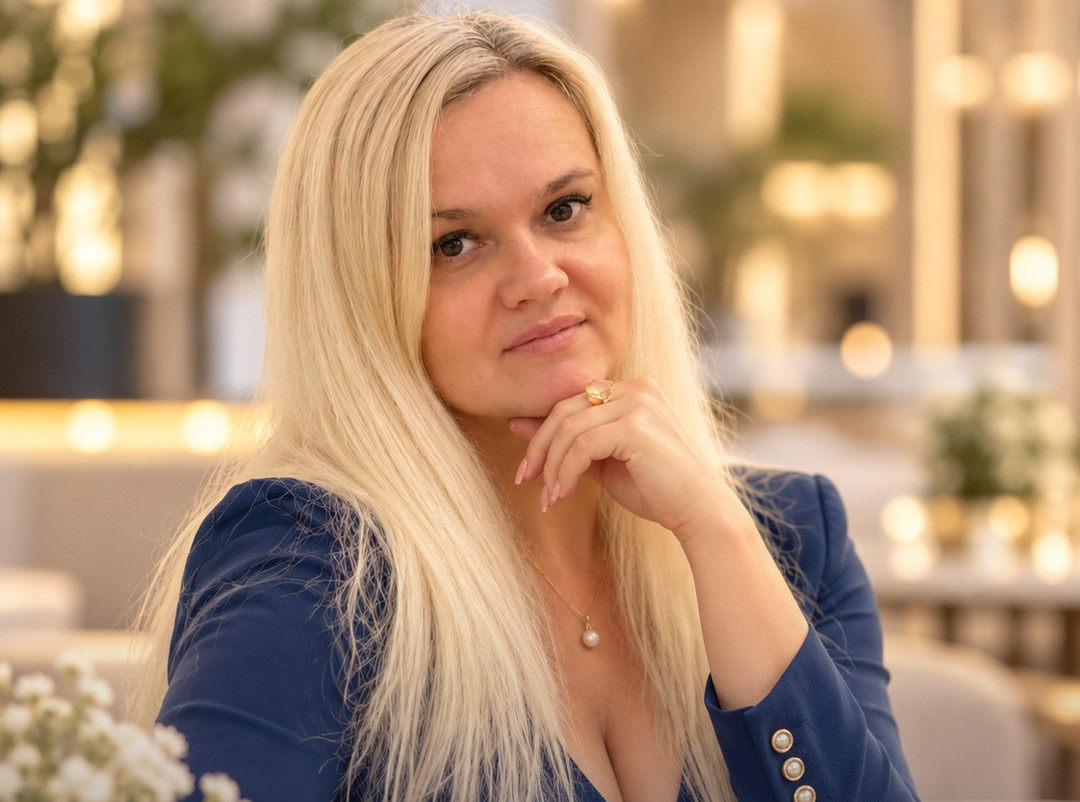
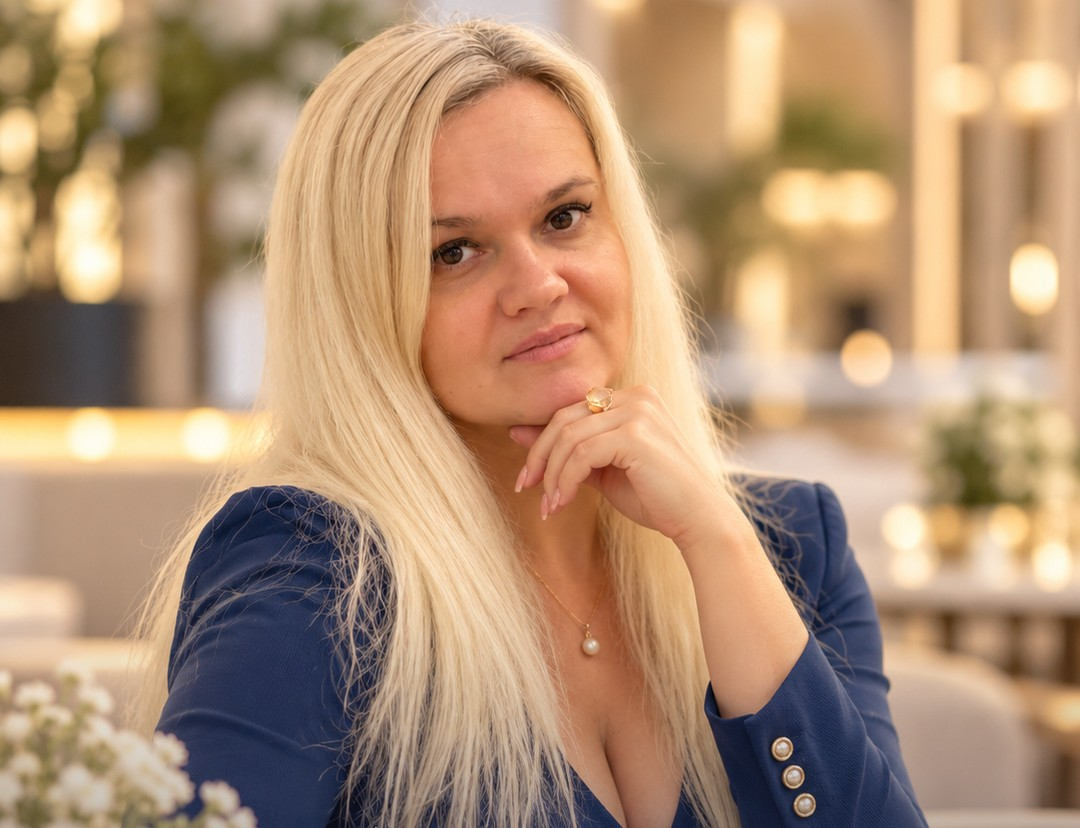
Страница программы: фото целиком, убраны оговорки про прошлые истории
Claude-Session: https://claude.ai/code/session_01QUX44k1taa8ggvj1layl4x

diff --git a/programma/index.html b/programma/index.html
@@ -79,7 +79,7 @@ strong{font-weight:700}
 /* format */
 .split{display:grid;gap:var(--gap);align-items:start}
 .ph{margin:0}
-.ph img{width:100%;object-fit:cover}
+.ph img{width:100%;height:auto;object-fit:cover;display:block}
 .facts{margin:0;display:grid;gap:0}
 .facts>div{padding:20px 0;border-top:1px solid rgba(28,34,51,.16)}
 .facts dt{font:400 21px/1.25 Playfair,serif;margin-bottom:8px}
@@ -175,8 +175,8 @@ body{padding-bottom:76px}
 <section id="format" class="sec tint"><div class="wrap split"><figure class="ph"><img src="img/tatyana-city.jpg" alt="Татьяна Жукова" loading="lazy" width="1080" height="1350"></figure><div><div class="shead"><span class="kicker">04 — Формат</span><h2>Как проходит работа</h2></div><dl class="facts"><div><dt>Встречи</dt><dd>16 живых встреч в Zoom раз в неделю по два часа, плюс две недели предобучения. В каждом месяце два практикума по вашему проекту, одна встреча глубокой внутренней работы и один разбор того, что вы внедрили. Все встречи записываются.</dd></div><div><dt>Внутренняя работа</dt><dd>Четыре темы: своё место, деньги и право получать, видимость и чужая оценка, рост и границы. Расстановочные практики на картах, Рейки, работа с родовыми и денежными сценариями.</dd></div><div><dt>Группа</dt><dd>До 8 человек. Каждая получает внимание, а не место в зале.</dd></div><div><dt>Чат и обратная связь</dt><dd>Между встречами я отвечаю в чате и даю обратную связь по каждому выполненному заданию. В дни вашего прогрева я на связи ежедневно.</dd></div><div><dt>Задания</dt><dd>Каждое задание — действие в вашей собственной практике: публикация, разговор с клиентом, названная цена, проведённая консультация. Заданий «для галочки» нет.</dd></div><div><dt>Практика</dt><dd>Около 60% программы — практика на вашем проекте, 20% — теория и 20% — проработки «блоков», без которых тоже не обойтись.</dd></div></dl></div></div></section>
 <section id="bonusy" class="sec navy"><div class="wrap"><div class="shead"><span class="kicker">05 — Сверх программы</span><h2>Бонусы</h2></div><ul class="bonus"><li><span>01</span><h3>Личный астро-нумерологический календарь практика на 2027 год</h3><p>ваши периоды для запусков, эфиров, рекламы и переговоров.</p></li><li><span>02</span><h3>«Чемоданчик эксперта»</h3><p>расчёты по дате рождения, которые можно применять для себя и использовать в работе со своими клиентами. Готовые мини-продукты для эзотериков.</p></li><li><span>03</span><h3>Энергетическое сопровождение группы</h3><p>круги Рейки, в том числе на клиентский поток, проявление и переход на новый денежный уровень.</p></li><li><span>04</span><h3>Банк шаблонов и промтов</h3><p>сценарий консультации, структура прогрева, карта продукта, промты под ваш голос и для каждого этапа.</p></li><li><span>05</span><h3>Аудиопрактики и медитации</h3><p>на каждую тему внутренней работы.</p></li><li><span>06</span><h3>Месяц в чате выпускников</h3><p>и встреча-сверка через 30 дней после окончания.</p></li></ul></div></section>
 <section id="pakety" class="sec"><div class="wrap"><div class="shead"><span class="kicker">06 — Стоимость участия</span><h2>Пакеты участия</h2></div><div class="plans"><article class="plan"><h3>Базовый</h3><p class="pnote">Вся программа в группе</p><p class="price">690 €</p><ul class="checks"><li>Предобучение и 16 встреч</li><li>Личные расчёты по дате рождения в рабочей тетради</li><li>Чат и обратная связь по заданиям</li><li>Четыре встречи внутренней работы в группе</li><li>Все бонусы</li></ul><a class="btn ghost" href="https://zhukovatatyana001.github.io/denezhny-kompas/">Обсудить на консультации</a></article><article class="plan"><h3>Продвинутый</h3><p class="pnote">Группа плюс личная работа со мной</p><p class="price">990 €</p><ul class="checks"><li>Предобучение и 16 встреч</li><li>Личные расчёты по дате рождения в рабочей тетради</li><li>Чат и обратная связь по заданиям</li><li>Четыре встречи внутренней работы в группе</li><li>Все бонусы</li><li>Личный письменный разбор по дате рождения применительно к вашей практике</li><li>Личные встречи со мной<em>2 встречи</em></li><li>Личная работа с вашим денежным сценарием или страхом проявления<em>1 сессия</em></li><li>Личный разбор вашей стратегии на год</li></ul><a class="btn ghost" href="https://zhukovatatyana001.github.io/denezhny-kompas/">Обсудить на консультации</a></article><article class="plan vip"><h3>VIP</h3><p class="pnote">Группа и личное сопровождение весь срок</p><p class="price">1 900 €</p><ul class="checks"><li>Предобучение и 16 встреч</li><li>Личные расчёты по дате рождения в рабочей тетради</li><li>Чат и обратная связь по заданиям</li><li>Четыре встречи внутренней работы в группе</li><li>Все бонусы</li><li>Личный письменный разбор по дате рождения применительно к вашей практике<em>расширенный</em></li><li>Личные встречи со мной<em>8 встреч, раз в две недели</em></li><li>Личная работа с вашим денежным сценарием или страхом проявления<em>по ситуации, включая регрессию</em></li><li>Личный разбор вашей стратегии на год<em>+ авторский калькулятор на 5 лет</em></li><li>Часть задач делаю за вас (упаковка профиля, настройка ИИ)<em>объём оговариваем</em></li></ul><a class="btn" href="https://zhukovatatyana001.github.io/denezhny-kompas/">Обсудить на консультации</a></article></div><div class="cols2 pnotes"><p>Базовый пакет — полноценное участие: вся программа, внутренняя работа и запуск уже в нём. За продвинутый и VIP вы платите за персонализацию и время один на один со мной.</p><p>Цены указаны на текущий набор. Возможна оплата частями по месяцам. Какой пакет вам подходит, решим вместе на бесплатной консультации.</p></div></div></section>
-<section id="avtor" class="sec tint"><div class="wrap split rev"><div><div class="shead"><span class="kicker">07 — Кто ведёт</span><h2>Об авторе</h2></div><p>Меня зовут Татьяна Жукова. По первому образованию я юрист, по второму — политолог, магистр политического маркетинга. Десять лет работала в судах, в Киевской мэрии, руководила юридическим отделом в государственной администрации. И ушла с этой должности, потому что хотела заниматься тем, что мне по-настоящему интересно. Так что я хорошо знаю, каково это: менять профессию, когда все вокруг знают вас в прежней, и вслух говорить «я занимаюсь эзотерикой».</p><p>В онлайн-маркетинге я с 2011 года. В 2013–2015 годах вместе с партнёром вела школу, в которой больше тысячи сетевиков научились продвигаться в интернете через свою экспертность: мои ученицы создавали сайты, блоги и интернет-магазины, хотя начинали с вопроса «что такое домен». Сейчас веду клиентские проекты по SMM и сайтам и использую ИИ в ежедневной работе.</p><p>Параллельно все эти годы шла вторая линия. Я астропсихолог, нумеролог, мастер-учитель Рейки (больше 230 настроек), расстановщик, регрессолог, работаю с китайской метафизикой: Ба-цзы, Ци Мэнь, фэн-шуй. Консультирую больше семи лет, мои клиенты живут в Украине, Германии, Казахстане, Израиле и многих других странах.</p><p>Долго мне говорили, что это нельзя объединить. А я дважды заходила в онлайн-маркетинг и дважды убеждалась: по отдельности не работает. Недостаточно знать своё предназначение, если ничего с ним не делать. И недостаточно изучать маркетинг, если не опираться на себя. «Денежный компас» — программа, в которой я соединила обе свои профессии.</p></div><figure class="ph"><img src="img/tatyana-blue.jpg" alt="Татьяна Жукова, автор программы" loading="lazy" width="1080" height="802"></figure></div><div class="wrap"><h3 class="subh">Сертификаты и обучение</h3><div class="slider " id="certs"><div class="track" tabindex="0"><a class="slide" href="img/cert-01.jpg" target="_blank" rel="noopener"><img src="img/cert-01.jpg" alt="Сертификат: консультант по предназначению в методе Матрица Судьбы, курс «Предназначение и выбор профессии»" loading="lazy" width="848" height="1200"></a><a class="slide" href="img/cert-02.jpg" target="_blank" rel="noopener"><img src="img/cert-02.jpg" alt="Сертификат Energy Coach of Quantum Financial Transformation" loading="lazy" width="848" height="1200"></a><a class="slide" href="img/cert-03.jpg" target="_blank" rel="noopener"><img src="img/cert-03.jpg" alt="Сертификат: Digital Zen, Рэйки цифрового пространства и энергии проявления" loading="lazy" width="848" height="1200"></a><a class="slide" href="img/cert-04.jpg" target="_blank" rel="noopener"><img src="img/cert-04.jpg" alt="Сертификат ORIGINAL Reiki Master Teacher" loading="lazy" width="848" height="1200"></a><a class="slide" href="img/cert-05.jpg" target="_blank" rel="noopener"><img src="img/cert-05.jpg" alt="Сертификат мастера-учителя Кундалини Рэйки" loading="lazy" width="1200" height="848"></a><a class="slide" href="img/cert-06.jpg" target="_blank" rel="noopener"><img src="img/cert-06.jpg" alt="Сертификат: регрессивная психология, Владимир Харламов" loading="lazy" width="1200" height="848"></a><a class="slide" href="img/cert-07.jpg" target="_blank" rel="noopener"><img src="img/cert-07.jpg" alt="Сертификат программы «Секреты дорогих программ 9.0», 2021" loading="lazy" width="1200" height="849"></a><a class="slide" href="img/cert-08.jpg" target="_blank" rel="noopener"><img src="img/cert-08.jpg" alt="Сертификат тренинга «Методика скоростных продаж коучинга»" loading="lazy" width="1200" height="857"></a><a class="slide" href="img/cert-09.jpg" target="_blank" rel="noopener"><img src="img/cert-09.jpg" alt="Сертификат: квантовая гипнотическая регрессия и другие энергии" loading="lazy" width="1200" height="848"></a><a class="slide" href="img/cert-10.jpg" target="_blank" rel="noopener"><img src="img/cert-10.jpg" alt="Сертификат мастера-учителя «Рэйки Деньги Новой Реальности»" loading="lazy" width="1200" height="848"></a><a class="slide" href="img/cert-11.jpg" target="_blank" rel="noopener"><img src="img/cert-11.jpg" alt="Сертификат: «Магический усилитель энергии денег»" loading="lazy" width="1200" height="848"></a><a class="slide" href="img/cert-12.jpg" target="_blank" rel="noopener"><img src="img/cert-12.jpg" alt="Сертификат Reiki Master of the Holy Fire" loading="lazy" width="848" height="1200"></a><a class="slide" href="img/cert-13.jpg" target="_blank" rel="noopener"><img src="img/cert-13.jpg" alt="Сертификат Phoenix Reiki" loading="lazy" width="1200" height="848"></a><a class="slide" href="img/cert-14.jpg" target="_blank" rel="noopener"><img src="img/cert-14.jpg" alt="Сертификат: вторая ступень Рейки Микао Усуи" loading="lazy" width="860" height="1200"></a><a class="slide" href="img/cert-15.jpg" target="_blank" rel="noopener"><img src="img/cert-15.jpg" alt="Сертификат школы «Магия рун»" loading="lazy" width="1000" height="707"></a></div><div class="ctrl"><button type="button" class="prev" aria-label="Назад">←</button><button type="button" class="next" aria-label="Вперёд">→</button></div></div></div></section>
-<section id="rezultaty" class="sec"><div class="wrap"><div class="grid"><div class="shead"><span class="kicker">08 — Истории и отзывы</span><h2>Результаты клиентов</h2></div><div class="scontent"><p class="lead">Это истории из моей работы прошлых лет: личного сопровождения и школы. Программу в нынешнем виде я пересобрала из своих материалов и обучений.</p></div></div><div class="cases"><article class="case"><h3>Инга</h3><div><span>Что было</span><p>Одна в столице, съёмная квартира, увольнения, денег не хватает, запрос «что делать дальше, у меня порча».</p></div><div><span>Что изменилось</span><p>В сопровождении работали с целями, ценностями, финансами и мышлением.</p></div><div><span>Результат</span><p>Доход вырос в 15 раз.</p></div></article><article class="case"><h3>Елена</h3><div><span>Что было</span><p>Работа по найму и собственный проект, который годами тянулся «в свободное время».</p></div><div><span>Что изменилось</span><p>Прошла коучинг.</p></div><div><span>Результат</span><p>Ушла из найма и открыла своё предприятие.</p></div></article><article class="case"><h3>Жанна, Казахстан</h3><div><span>Что было</span><p>Государственная служба, кредиты размером с зарплату, никаких целей.</p></div><div><span>Что изменилось</span><p>Двухмесячный курс.</p></div><div><span>Результат</span><p>Купила франшизу детского развивающего центра и позже ушла с госработы, переехала в столицу, купила дом.</p></div></article><article class="case"><h3>Наталья, школа для сетевиков</h3><div><span>Что было</span><p>Программист, всё знала, но не было результата.</p></div><div><span>Что изменилось</span><p>Прошла обучение, затем вернулась в него куратором уже со своей новой командой.</p></div><div><span>Результат</span><p>Начала создавать интернет-магазины не только для себя и активно проявляться. Спустя годы сменила направление, но навык проявляться остался и работает в любой сфере.</p></div></article><article class="case"><h3>Татьяна</h3><div><span>Что было</span><p>Много лет занималась детьми и внуками, после развода захотела «тоже кем-то стать».</p></div><div><span>Что изменилось</span><p>В работе нашли её направление, прошла обучение.</p></div><div><span>Результат</span><p>Начала собственную практику, переехала и купила квартиру.</p></div></article></div><h3 class="subh">Отзывы в переписке</h3><div class="slider tall" id="shots"><div class="track" tabindex="0"><a class="slide" href="img/otzyv-zhanna.png" target="_blank" rel="noopener"><img src="img/otzyv-zhanna.png" alt="Отзыв: Жанна, Казахстан. Двухмесячный курс 2015 года" loading="lazy" width="720" height="960"><span>Жанна, Казахстан. Двухмесячный курс 2015 года</span></a><a class="slide" href="img/otzyv-01.jpg" target="_blank" rel="noopener"><img src="img/otzyv-01.jpg" alt="Отзыв: Разбор по дате рождения, 2021" loading="lazy" width="900" height="733"><span>Разбор по дате рождения, 2021</span></a><a class="slide" href="img/otzyv-02.jpg" target="_blank" rel="noopener"><img src="img/otzyv-02.jpg" alt="Отзыв: После Рейки: договор на франшизу и звонки по работе" loading="lazy" width="514" height="291"><span>После Рейки: договор на франшизу и звонки по работе</span></a><a class="slide" href="img/otzyv-03.jpg" target="_blank" rel="noopener"><img src="img/otzyv-03.jpg" alt="Отзыв: Анна. Консультация по стратегии" loading="lazy" width="433" height="621"><span>Анна. Консультация по стратегии</span></a><a class="slide" href="img/otzyv-04.jpg" target="_blank" rel="noopener"><img src="img/otzyv-04.jpg" alt="Отзыв: Работа с 2021 года" loading="lazy" width="584" height="512"><span>Работа с 2021 года</span></a><a class="slide" href="img/otzyv-05.jpg" target="_blank" rel="noopener"><img src="img/otzyv-05.jpg" alt="Отзыв: О нашей работе" loading="lazy" width="656" height="257"><span>О нашей работе</span></a><a class="slide" href="img/otzyv-06.jpg" target="_blank" rel="noopener"><img src="img/otzyv-06.jpg" alt="Отзыв: Александра. Отзыв на Facebook" loading="lazy" width="900" height="625"><span>Александра. Отзыв на Facebook</span></a><a class="slide" href="img/otzyv-07.jpg" target="_blank" rel="noopener"><img src="img/otzyv-07.jpg" alt="Отзыв: Елена. Отзыв на Facebook" loading="lazy" width="900" height="798"><span>Елена. Отзыв на Facebook</span></a><a class="slide" href="img/otzyv-08.jpg" target="_blank" rel="noopener"><img src="img/otzyv-08.jpg" alt="Отзыв: Натали. Отзыв на Facebook" loading="lazy" width="499" height="413"><span>Натали. Отзыв на Facebook</span></a><a class="slide" href="img/otzyv-09.jpg" target="_blank" rel="noopener"><img src="img/otzyv-09.jpg" alt="Отзыв: Работа с родом, 2021" loading="lazy" width="900" height="904"><span>Работа с родом, 2021</span></a><a class="slide" href="img/otzyv-10.jpg" target="_blank" rel="noopener"><img src="img/otzyv-10.jpg" alt="Отзыв: Отзыв в Instagram" loading="lazy" width="443" height="400"><span>Отзыв в Instagram</span></a><a class="slide" href="img/otzyv-11.jpg" target="_blank" rel="noopener"><img src="img/otzyv-11.jpg" alt="Отзыв: Инга. После первой консультации" loading="lazy" width="900" height="387"><span>Инга. После первой консультации</span></a><a class="slide" href="img/otzyv-12.jpg" target="_blank" rel="noopener"><img src="img/otzyv-12.jpg" alt="Отзыв: Инга. В тот же вечер" loading="lazy" width="900" height="1137"><span>Инга. В тот же вечер</span></a><a class="slide" href="img/otzyv-14.jpg" target="_blank" rel="noopener"><img src="img/otzyv-14.jpg" alt="Отзыв: Переезд и перемены в семье" loading="lazy" width="900" height="1512"><span>Переезд и перемены в семье</span></a><a class="slide" href="img/otzyv-13.jpg" target="_blank" rel="noopener"><img src="img/otzyv-13.jpg" alt="Отзыв: О переменах в семье" loading="lazy" width="900" height="304"><span>О переменах в семье</span></a><a class="slide" href="img/otzyv-sonya.png" target="_blank" rel="noopener"><img src="img/otzyv-sonya.png" alt="Отзыв: София. Разбор: реализация и деньги" loading="lazy" width="720" height="753"><span>София. Разбор: реализация и деньги</span></a><a class="slide" href="img/otzyv-alisa.png" target="_blank" rel="noopener"><img src="img/otzyv-alisa.png" alt="Отзыв: Алиса. Консультация по дате рождения" loading="lazy" width="720" height="738"><span>Алиса. Консультация по дате рождения</span></a></div><div class="ctrl"><button type="button" class="prev" aria-label="Назад">←</button><button type="button" class="next" aria-label="Вперёд">→</button></div></div><p class="honest">Я не обещаю вам чужой результат и не называю сумму, которую вы заработаете: она зависит от вас, вашей ниши и вашей готовности действовать. Я обещаю, что вы пройдёте этот путь не в одиночку, а всё, что мы строим, будет построено из вас, а не против вас и не по шаблону.</p></div></section>
+<section id="avtor" class="sec tint"><div class="wrap split rev"><div><div class="shead"><span class="kicker">07 — Кто ведёт</span><h2>Об авторе</h2></div><p>Меня зовут Татьяна Жукова. По первому образованию я юрист, по второму — политолог, магистр политического маркетинга. Десять лет работала в судах, в Киевской мэрии, руководила юридическим отделом в государственной администрации. И ушла с этой должности, потому что хотела заниматься тем, что мне по-настоящему интересно. Так что я хорошо знаю, каково это: менять профессию, когда все вокруг знают вас в прежней, и вслух говорить «я занимаюсь эзотерикой».</p><p>В онлайн-маркетинге я с 2011 года. В 2013–2015 годах вместе с партнёром вела школу, в которой больше тысячи сетевиков научились продвигаться в интернете через свою экспертность: мои ученицы создавали сайты, блоги и интернет-магазины, хотя начинали с вопроса «что такое домен». Сейчас веду клиентские проекты по SMM и сайтам и использую ИИ в ежедневной работе.</p><p>Параллельно все эти годы шла вторая линия. Я астропсихолог, нумеролог, мастер-учитель Рейки (больше 230 настроек), расстановщик, регрессолог, работаю с китайской метафизикой: Ба-цзы, Ци Мэнь, фэн-шуй. Консультирую больше семи лет, мои клиенты живут в Украине, Германии, Казахстане, Израиле и многих других странах.</p><p>Долго мне говорили, что это нельзя объединить. А я дважды заходила в онлайн-маркетинг и дважды убеждалась: по отдельности не работает. Недостаточно знать своё предназначение, если ничего с ним не делать. И недостаточно изучать маркетинг, если не опираться на себя. «Денежный компас» — программа, в которой я соединила обе свои профессии.</p></div><figure class="ph"><img src="img/tatyana-blue.jpg" alt="Татьяна Жукова, автор программы" loading="lazy" width="1080" height="828"></figure></div><div class="wrap"><h3 class="subh">Сертификаты и обучение</h3><div class="slider " id="certs"><div class="track" tabindex="0"><a class="slide" href="img/cert-01.jpg" target="_blank" rel="noopener"><img src="img/cert-01.jpg" alt="Сертификат: консультант по предназначению в методе Матрица Судьбы, курс «Предназначение и выбор профессии»" loading="lazy" width="848" height="1200"></a><a class="slide" href="img/cert-02.jpg" target="_blank" rel="noopener"><img src="img/cert-02.jpg" alt="Сертификат Energy Coach of Quantum Financial Transformation" loading="lazy" width="848" height="1200"></a><a class="slide" href="img/cert-03.jpg" target="_blank" rel="noopener"><img src="img/cert-03.jpg" alt="Сертификат: Digital Zen, Рэйки цифрового пространства и энергии проявления" loading="lazy" width="848" height="1200"></a><a class="slide" href="img/cert-04.jpg" target="_blank" rel="noopener"><img src="img/cert-04.jpg" alt="Сертификат ORIGINAL Reiki Master Teacher" loading="lazy" width="848" height="1200"></a><a class="slide" href="img/cert-05.jpg" target="_blank" rel="noopener"><img src="img/cert-05.jpg" alt="Сертификат мастера-учителя Кундалини Рэйки" loading="lazy" width="1200" height="848"></a><a class="slide" href="img/cert-06.jpg" target="_blank" rel="noopener"><img src="img/cert-06.jpg" alt="Сертификат: регрессивная психология, Владимир Харламов" loading="lazy" width="1200" height="848"></a><a class="slide" href="img/cert-07.jpg" target="_blank" rel="noopener"><img src="img/cert-07.jpg" alt="Сертификат программы «Секреты дорогих программ 9.0», 2021" loading="lazy" width="1200" height="849"></a><a class="slide" href="img/cert-08.jpg" target="_blank" rel="noopener"><img src="img/cert-08.jpg" alt="Сертификат тренинга «Методика скоростных продаж коучинга»" loading="lazy" width="1200" height="857"></a><a class="slide" href="img/cert-09.jpg" target="_blank" rel="noopener"><img src="img/cert-09.jpg" alt="Сертификат: квантовая гипнотическая регрессия и другие энергии" loading="lazy" width="1200" height="848"></a><a class="slide" href="img/cert-10.jpg" target="_blank" rel="noopener"><img src="img/cert-10.jpg" alt="Сертификат мастера-учителя «Рэйки Деньги Новой Реальности»" loading="lazy" width="1200" height="848"></a><a class="slide" href="img/cert-11.jpg" target="_blank" rel="noopener"><img src="img/cert-11.jpg" alt="Сертификат: «Магический усилитель энергии денег»" loading="lazy" width="1200" height="848"></a><a class="slide" href="img/cert-12.jpg" target="_blank" rel="noopener"><img src="img/cert-12.jpg" alt="Сертификат Reiki Master of the Holy Fire" loading="lazy" width="848" height="1200"></a><a class="slide" href="img/cert-13.jpg" target="_blank" rel="noopener"><img src="img/cert-13.jpg" alt="Сертификат Phoenix Reiki" loading="lazy" width="1200" height="848"></a><a class="slide" href="img/cert-14.jpg" target="_blank" rel="noopener"><img src="img/cert-14.jpg" alt="Сертификат: вторая ступень Рейки Микао Усуи" loading="lazy" width="860" height="1200"></a><a class="slide" href="img/cert-15.jpg" target="_blank" rel="noopener"><img src="img/cert-15.jpg" alt="Сертификат школы «Магия рун»" loading="lazy" width="1000" height="707"></a></div><div class="ctrl"><button type="button" class="prev" aria-label="Назад">←</button><button type="button" class="next" aria-label="Вперёд">→</button></div></div></div></section>
+<section id="rezultaty" class="sec"><div class="wrap"><div class="grid"><div class="shead"><span class="kicker">08 — Истории и отзывы</span><h2>Результаты клиентов</h2></div><div class="scontent"><p class="lead">Реальные истории людей, с которыми я работала.</p></div></div><div class="cases"><article class="case"><h3>Инга</h3><div><span>Что было</span><p>Одна в столице, съёмная квартира, увольнения, денег не хватает, запрос «что делать дальше, у меня порча».</p></div><div><span>Что изменилось</span><p>В сопровождении работали с целями, ценностями, финансами и мышлением.</p></div><div><span>Результат</span><p>Доход вырос в 15 раз.</p></div></article><article class="case"><h3>Елена</h3><div><span>Что было</span><p>Работа по найму и собственный проект, который годами тянулся «в свободное время».</p></div><div><span>Что изменилось</span><p>Прошла коучинг.</p></div><div><span>Результат</span><p>Ушла из найма и открыла своё предприятие.</p></div></article><article class="case"><h3>Жанна, Казахстан</h3><div><span>Что было</span><p>Государственная служба, кредиты размером с зарплату, никаких целей.</p></div><div><span>Что изменилось</span><p>Двухмесячный курс.</p></div><div><span>Результат</span><p>Купила франшизу детского развивающего центра и позже ушла с госработы, переехала в столицу, купила дом.</p></div></article><article class="case"><h3>Наталья, школа для сетевиков</h3><div><span>Что было</span><p>Программист, всё знала, но не было результата.</p></div><div><span>Что изменилось</span><p>Прошла обучение, затем вернулась в него куратором уже со своей новой командой.</p></div><div><span>Результат</span><p>Начала создавать интернет-магазины не только для себя и активно проявляться. Спустя годы сменила направление, но навык проявляться остался и работает в любой сфере.</p></div></article><article class="case"><h3>Татьяна</h3><div><span>Что было</span><p>Много лет занималась детьми и внуками, после развода захотела «тоже кем-то стать».</p></div><div><span>Что изменилось</span><p>В работе нашли её направление, прошла обучение.</p></div><div><span>Результат</span><p>Начала собственную практику, переехала и купила квартиру.</p></div></article></div><h3 class="subh">Отзывы в переписке</h3><div class="slider tall" id="shots"><div class="track" tabindex="0"><a class="slide" href="img/otzyv-zhanna.png" target="_blank" rel="noopener"><img src="img/otzyv-zhanna.png" alt="Отзыв: Жанна, Казахстан. Двухмесячный курс 2015 года" loading="lazy" width="720" height="960"><span>Жанна, Казахстан. Двухмесячный курс 2015 года</span></a><a class="slide" href="img/otzyv-01.jpg" target="_blank" rel="noopener"><img src="img/otzyv-01.jpg" alt="Отзыв: Разбор по дате рождения, 2021" loading="lazy" width="900" height="733"><span>Разбор по дате рождения, 2021</span></a><a class="slide" href="img/otzyv-02.jpg" target="_blank" rel="noopener"><img src="img/otzyv-02.jpg" alt="Отзыв: После Рейки: договор на франшизу и звонки по работе" loading="lazy" width="514" height="291"><span>После Рейки: договор на франшизу и звонки по работе</span></a><a class="slide" href="img/otzyv-03.jpg" target="_blank" rel="noopener"><img src="img/otzyv-03.jpg" alt="Отзыв: Анна. Консультация по стратегии" loading="lazy" width="433" height="621"><span>Анна. Консультация по стратегии</span></a><a class="slide" href="img/otzyv-04.jpg" target="_blank" rel="noopener"><img src="img/otzyv-04.jpg" alt="Отзыв: Работа с 2021 года" loading="lazy" width="584" height="512"><span>Работа с 2021 года</span></a><a class="slide" href="img/otzyv-05.jpg" target="_blank" rel="noopener"><img src="img/otzyv-05.jpg" alt="Отзыв: О нашей работе" loading="lazy" width="656" height="257"><span>О нашей работе</span></a><a class="slide" href="img/otzyv-06.jpg" target="_blank" rel="noopener"><img src="img/otzyv-06.jpg" alt="Отзыв: Александра. Отзыв на Facebook" loading="lazy" width="900" height="625"><span>Александра. Отзыв на Facebook</span></a><a class="slide" href="img/otzyv-07.jpg" target="_blank" rel="noopener"><img src="img/otzyv-07.jpg" alt="Отзыв: Елена. Отзыв на Facebook" loading="lazy" width="900" height="798"><span>Елена. Отзыв на Facebook</span></a><a class="slide" href="img/otzyv-08.jpg" target="_blank" rel="noopener"><img src="img/otzyv-08.jpg" alt="Отзыв: Натали. Отзыв на Facebook" loading="lazy" width="499" height="413"><span>Натали. Отзыв на Facebook</span></a><a class="slide" href="img/otzyv-09.jpg" target="_blank" rel="noopener"><img src="img/otzyv-09.jpg" alt="Отзыв: Работа с родом, 2021" loading="lazy" width="900" height="904"><span>Работа с родом, 2021</span></a><a class="slide" href="img/otzyv-10.jpg" target="_blank" rel="noopener"><img src="img/otzyv-10.jpg" alt="Отзыв: Отзыв в Instagram" loading="lazy" width="443" height="400"><span>Отзыв в Instagram</span></a><a class="slide" href="img/otzyv-11.jpg" target="_blank" rel="noopener"><img src="img/otzyv-11.jpg" alt="Отзыв: Инга. После первой консультации" loading="lazy" width="900" height="387"><span>Инга. После первой консультации</span></a><a class="slide" href="img/otzyv-12.jpg" target="_blank" rel="noopener"><img src="img/otzyv-12.jpg" alt="Отзыв: Инга. В тот же вечер" loading="lazy" width="900" height="1137"><span>Инга. В тот же вечер</span></a><a class="slide" href="img/otzyv-14.jpg" target="_blank" rel="noopener"><img src="img/otzyv-14.jpg" alt="Отзыв: Переезд и перемены в семье" loading="lazy" width="900" height="1512"><span>Переезд и перемены в семье</span></a><a class="slide" href="img/otzyv-13.jpg" target="_blank" rel="noopener"><img src="img/otzyv-13.jpg" alt="Отзыв: О переменах в семье" loading="lazy" width="900" height="304"><span>О переменах в семье</span></a><a class="slide" href="img/otzyv-sonya.png" target="_blank" rel="noopener"><img src="img/otzyv-sonya.png" alt="Отзыв: София. Разбор: реализация и деньги" loading="lazy" width="720" height="753"><span>София. Разбор: реализация и деньги</span></a><a class="slide" href="img/otzyv-alisa.png" target="_blank" rel="noopener"><img src="img/otzyv-alisa.png" alt="Отзыв: Алиса. Консультация по дате рождения" loading="lazy" width="720" height="738"><span>Алиса. Консультация по дате рождения</span></a></div><div class="ctrl"><button type="button" class="prev" aria-label="Назад">←</button><button type="button" class="next" aria-label="Вперёд">→</button></div></div><p class="honest">Я не обещаю вам чужой результат и не называю сумму, которую вы заработаете: она зависит от вас, вашей ниши и вашей готовности действовать. Я обещаю, что вы пройдёте этот путь не в одиночку, а всё, что мы строим, будет построено из вас, а не против вас и не по шаблону.</p></div></section>
 </main>
 <section class="final"><div class="wrap">
  <div><span class="kicker">С чего начать</span><h2>Бесплатная консультация</h2></div>
